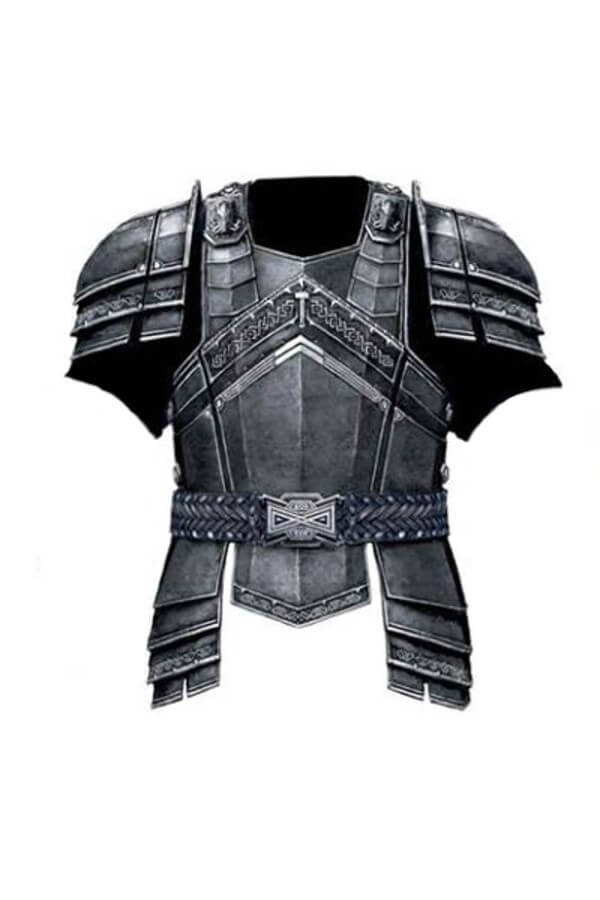
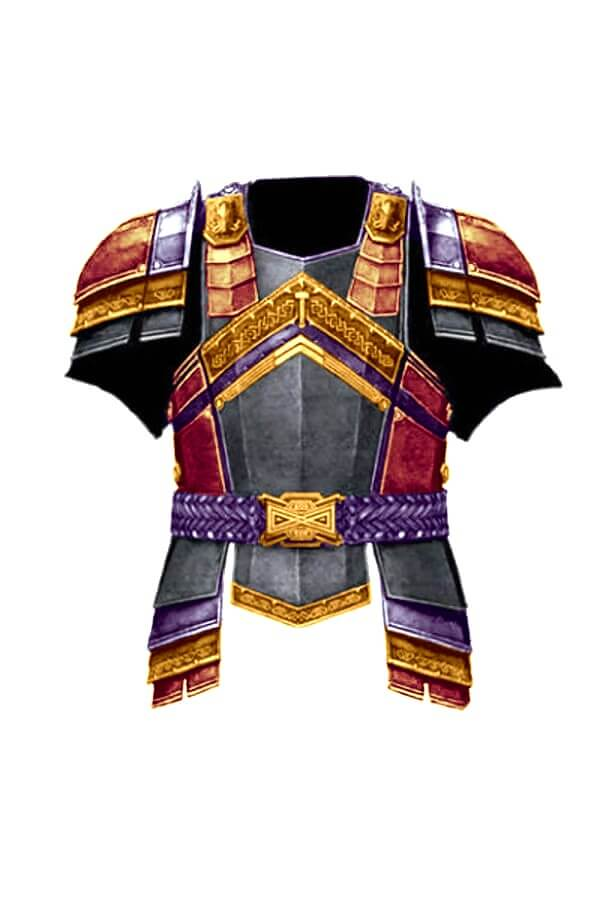
upgrade dawnhunters image

Changed region(s): [[0.12, 0.1867, 0.9, 0.8089]]

diff --git a/councilofthieves/assets.html b/councilofthieves/assets.html
@@ -181,7 +181,7 @@
       <article>
         <h3>Dawnhunter</h3>
         <img src="images/dawnhunter.jpg" alt="Dawnhunter">
-        <p>This red-and-gold <i>+1 light fortification breastplate</i> is crafted and painted to look as if it had been carved from stone. It belonged to Commander Helmrunner of the Ever-Advancing Legion, said to have been one of the dwarven commanders to lead an army to the surface during the Quest for the Sky so long ago.</p>
+        <p>This amythyst, red, gold <i>+1 light fortification breastplate</i> was carved directly from the stone. It belonged to Commander Helmrunner of the Ever-Advancing Legion, said to have been one of the dwarven commanders to lead an army to the surface during the Quest for the Sky so long ago, who commissioned it according to a vision given by Torag.</p>
         <p>In areas of magical darkness, <i>Dawnhunter</i> radiates light with an effect spell level identicle to the spell creating magical darkness at a range of 5 ft. radius per spell level. This light counters and dispels magical darkness within its radius only. When worn by a dwarf, the dwarf gains damage reduction equal to the <i>Dawnhunter's</i> effective spell level that cannot be bypassed. Creatures with light sensitivity, light blindness, or a weakness to natural sunlight must roll twice and take the worse result against the <i>Dawnhunter's</i> fortification ability.</p>
         <p><i>Dawnhunter</i> can only be destroyed by a dwarf knowingly and willingly carrying it back to the depths where it was forged without the use of magic and living for 100 years in absolute darkness.</p>
       </article>
